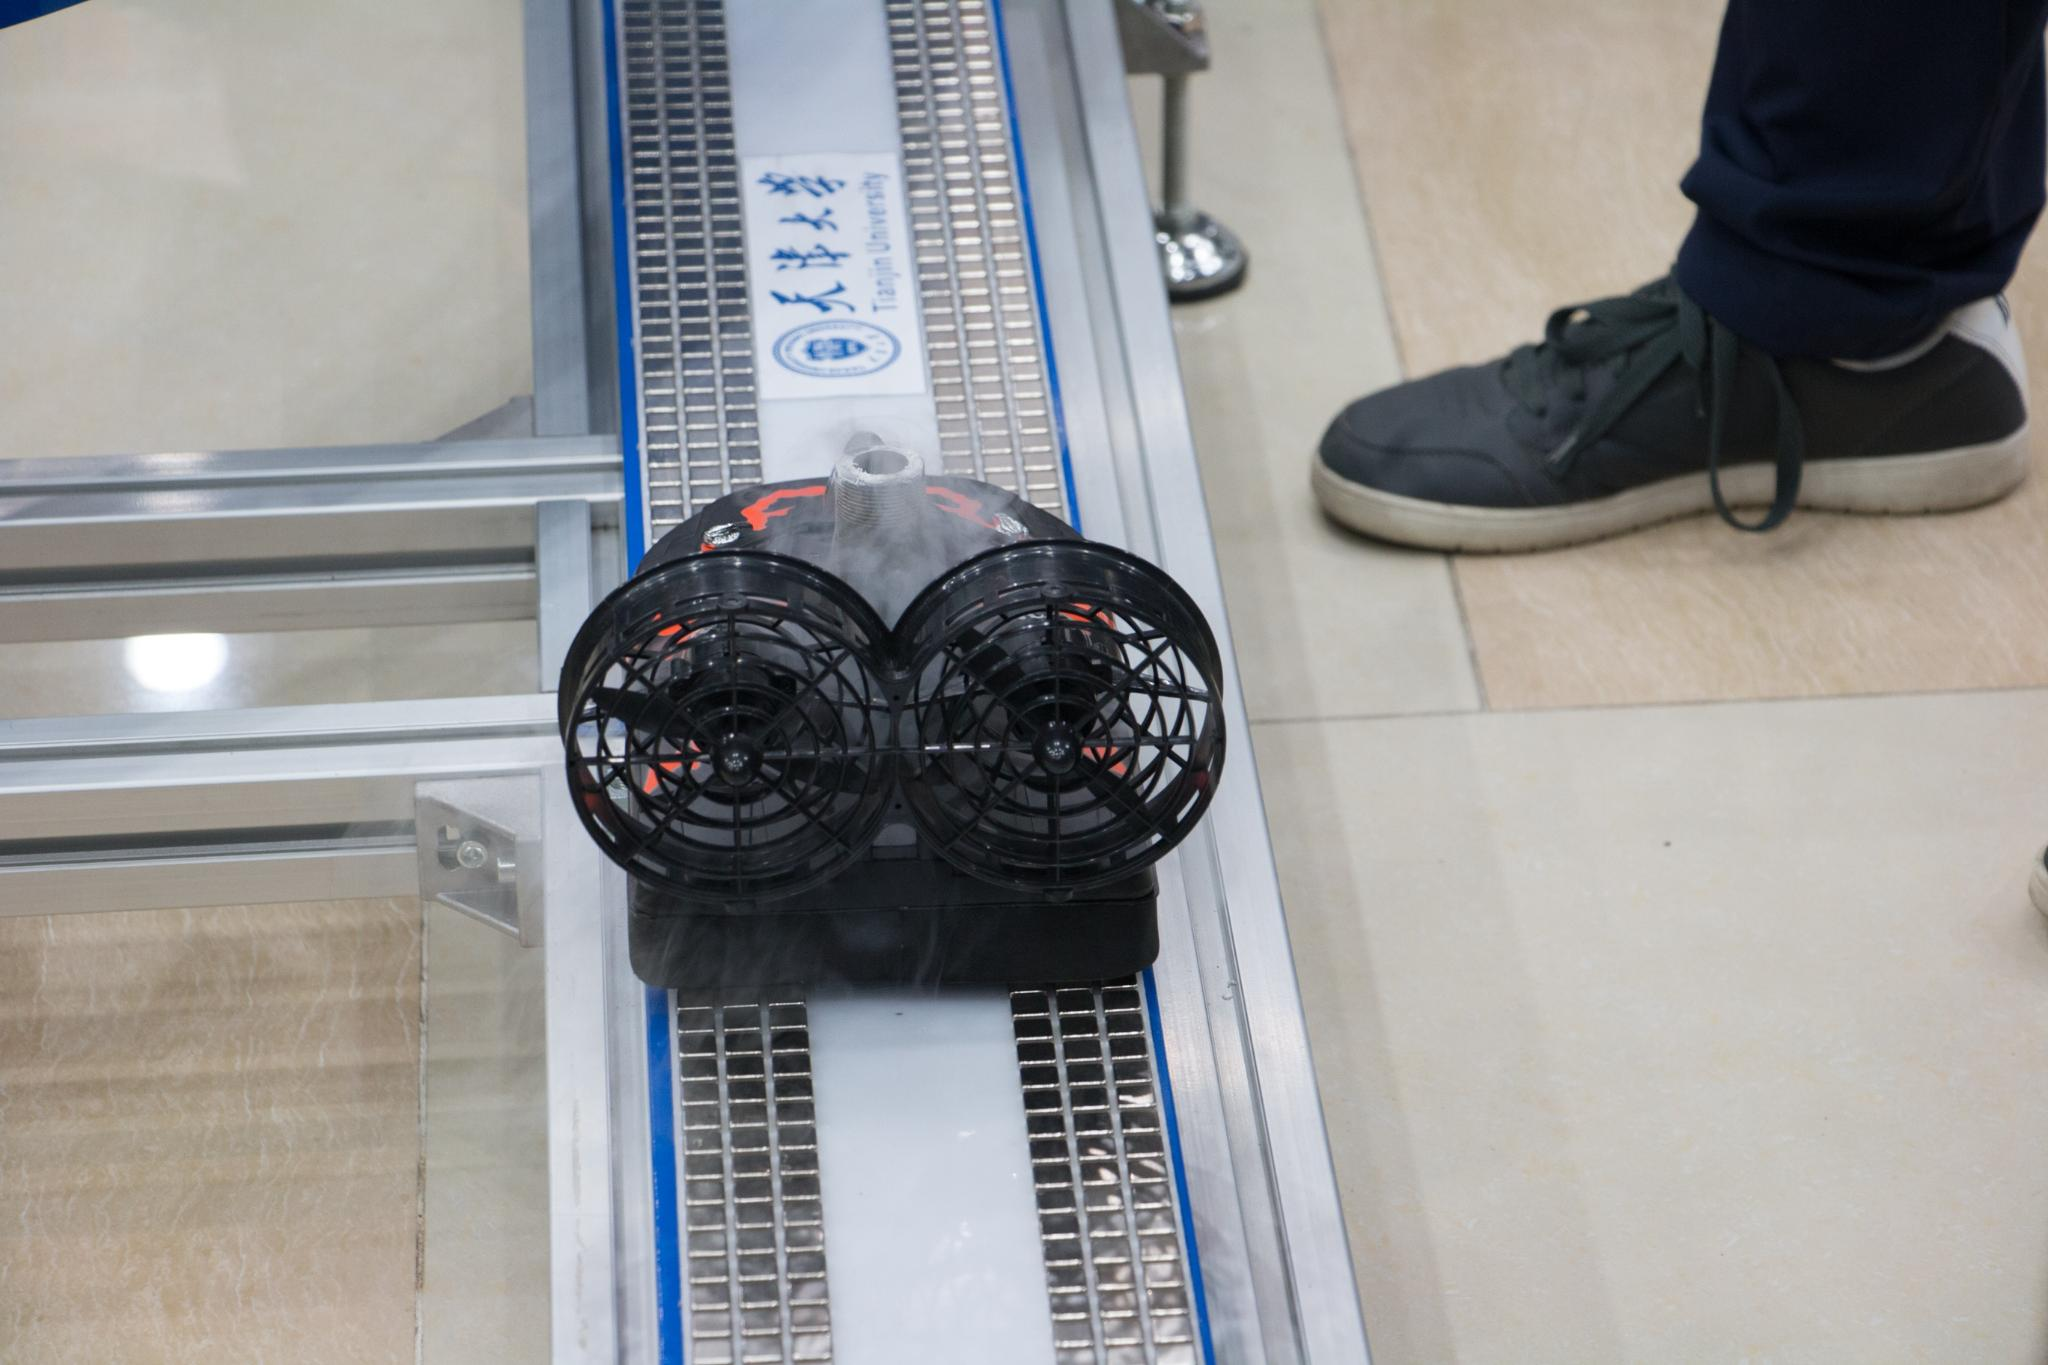
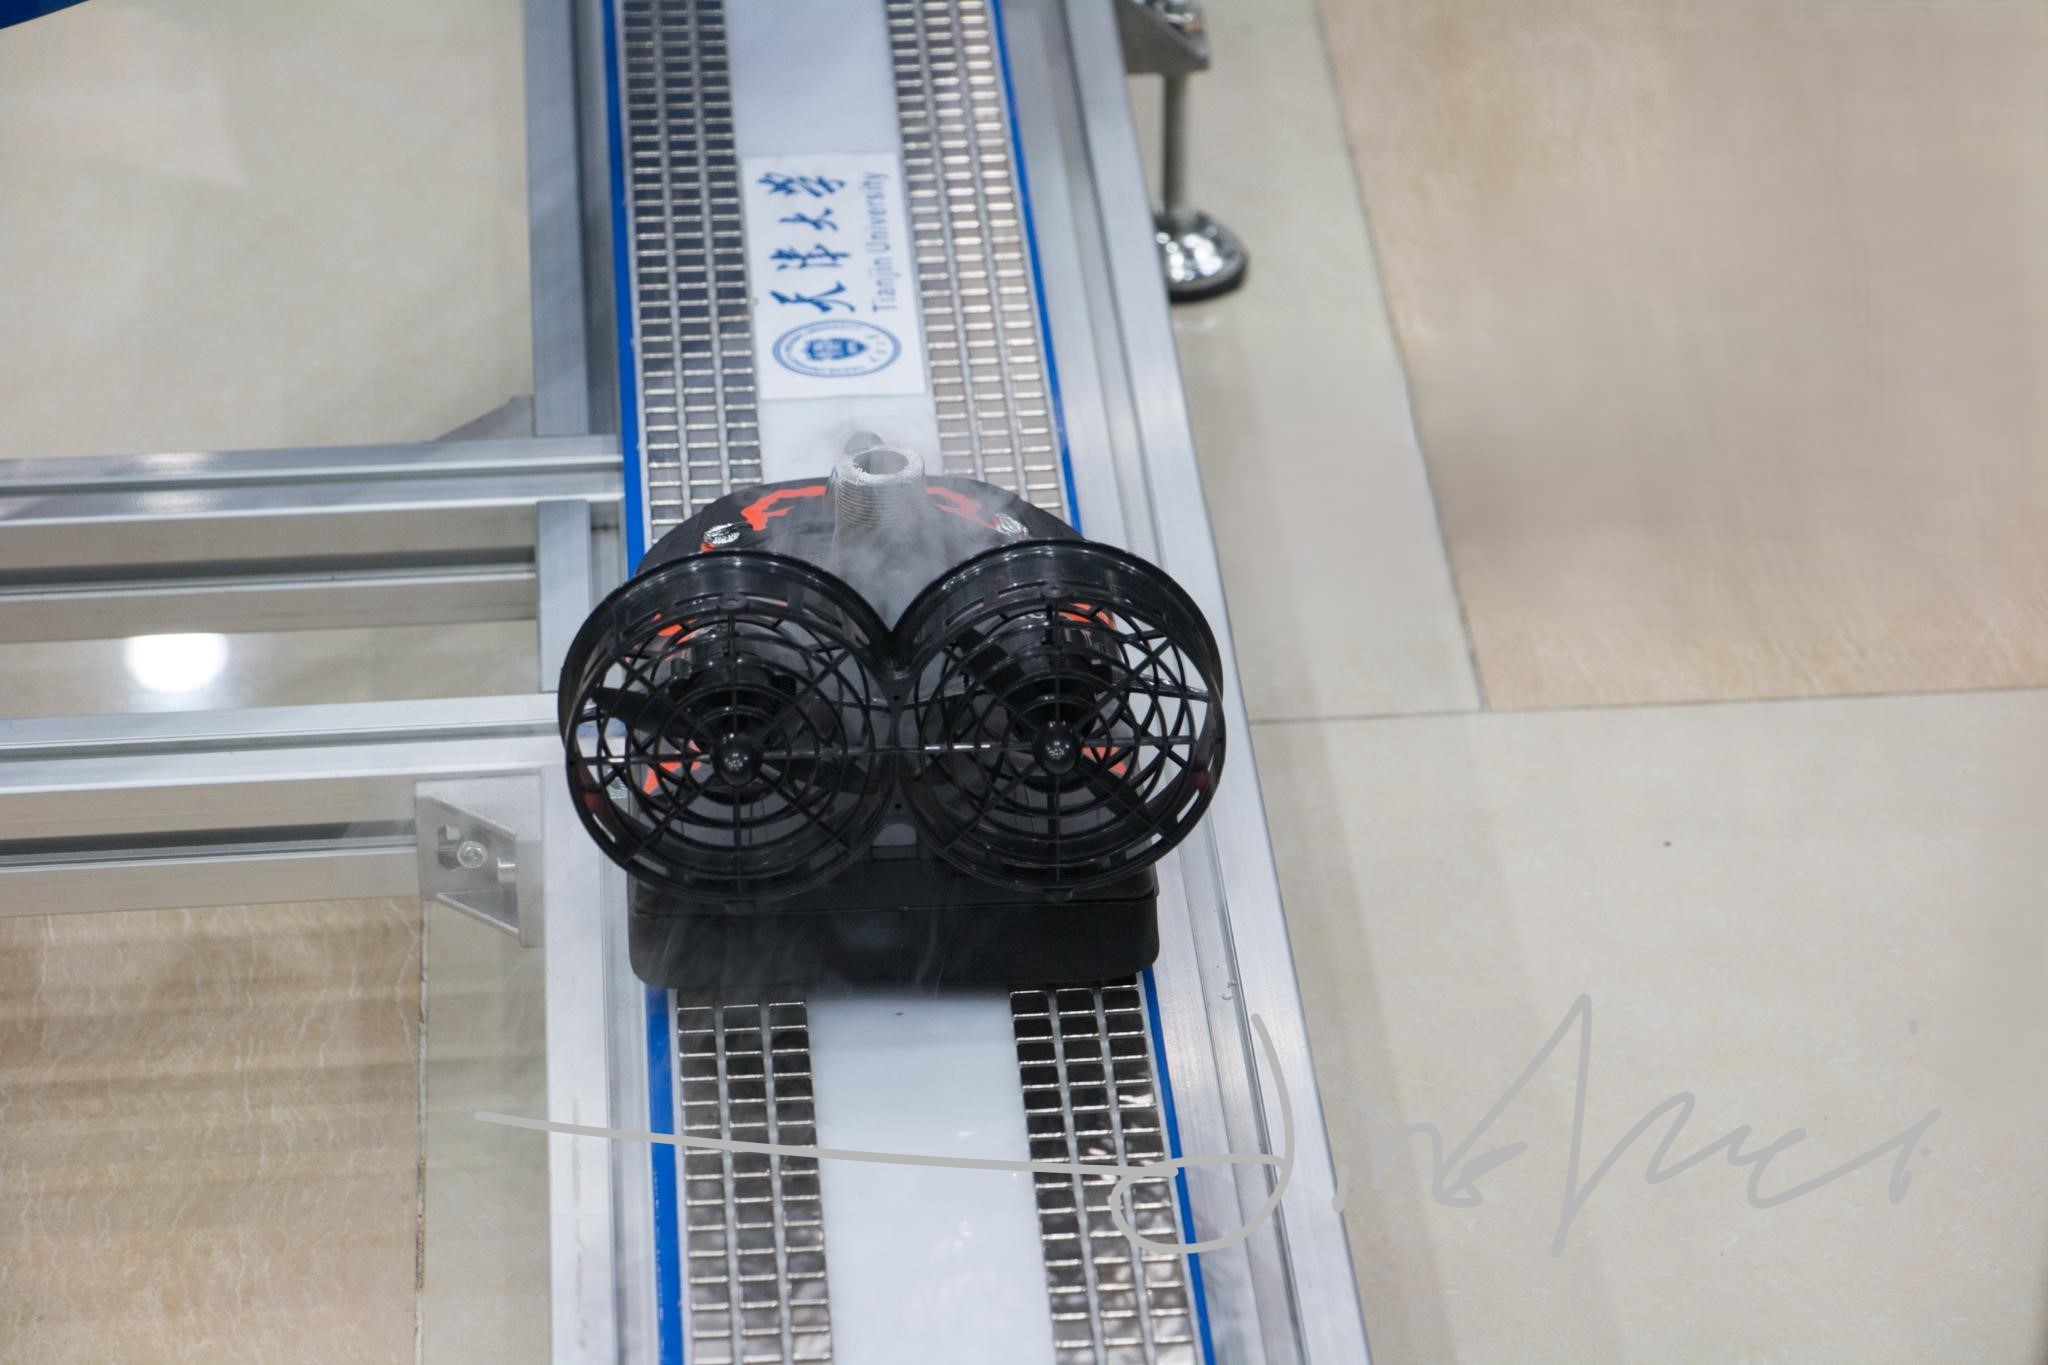
upload amps proj; add watermark to figures

diff --git a/_portfolio/1a_amps.md b/_portfolio/1a_amps.md
@@ -1,0 +1,7 @@
+---
+title: "Asymmetric Modular Pulse Synthesizer for TMS"
+excerpt: "Asymmetric multilevel converters are like cheating. <br/><img src='/images/amps_demonstration.png'>"
+collection: portfolio
+---
+
+For more details, check our preprint paper [here](https://arxiv.org/abs/2503.06172).
